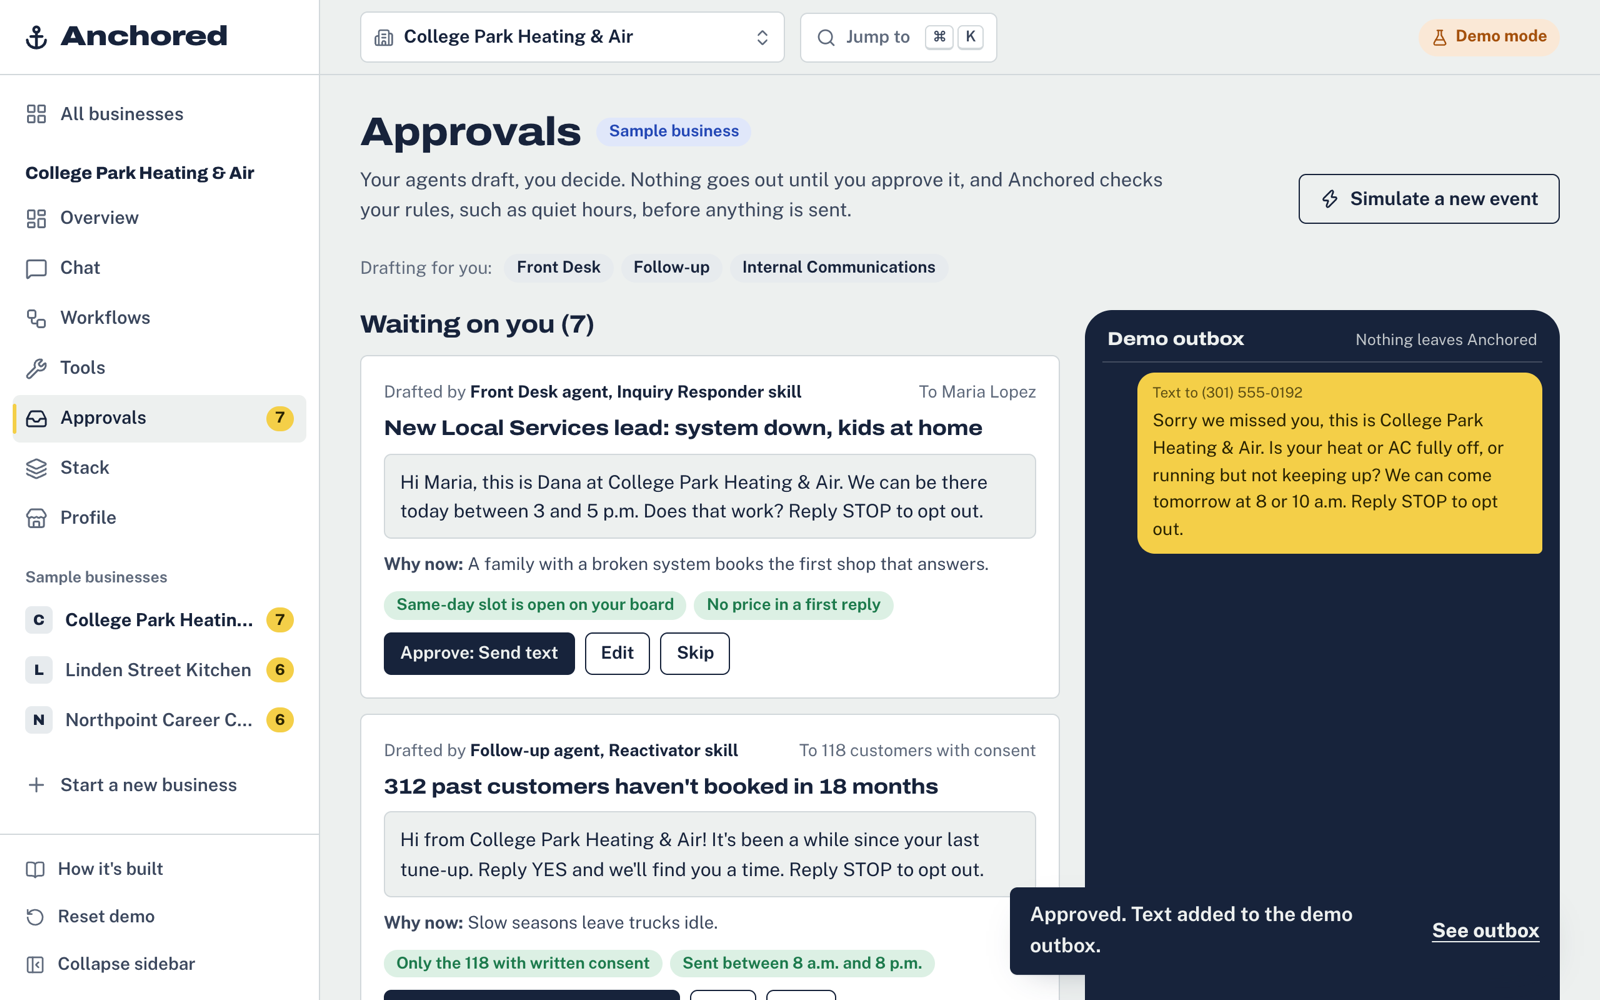
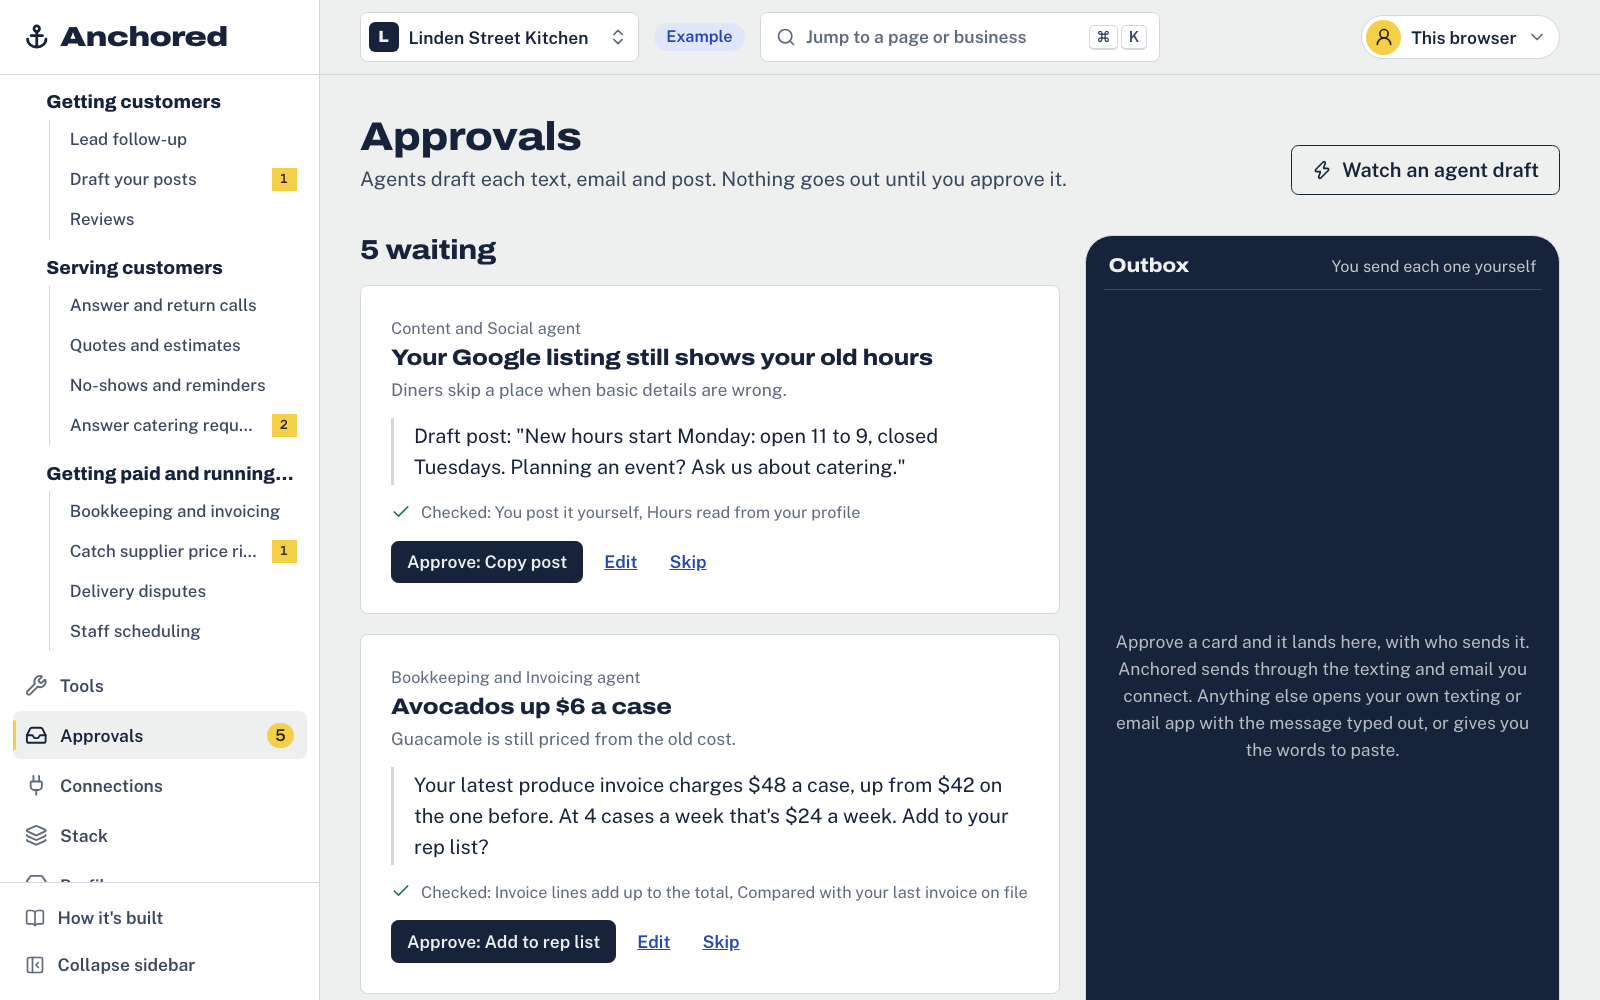
fix(landing): retake the product screenshot from the current app
The landing page showed the old demo UI: the HVAC sample, Demo mode, Simulate a new event and Demo outbox. The new 1600x1000 shot is the example restaurant's Approvals page as it ships, with Watch an agent draft and the outbox.

diff --git a/app/page.tsx b/app/page.tsx
@@ -98,7 +98,7 @@ export default function HomePage() {
           </div>
           <figure className={styles.shot}>
             <div className={styles.bar}>anchored / approvals</div>
-            <img src="/landing/approvals.png" alt="Approvals page: draft texts waiting for the owner, each with Approve, Edit and Skip" width={1600} height={1000} loading="lazy" />
+            <img src="/landing/approvals.png" alt="Approvals page for the example restaurant: drafts waiting for the owner, each with Approve, Edit and Skip, beside the outbox" width={1600} height={1000} loading="lazy" />
             <figcaption>
               <b>Approve, edit or skip</b>
               <span>Each card says who drafted it, who it&apos;s for, and why now. Quiet hours and consent are checked before anything goes.</span>
